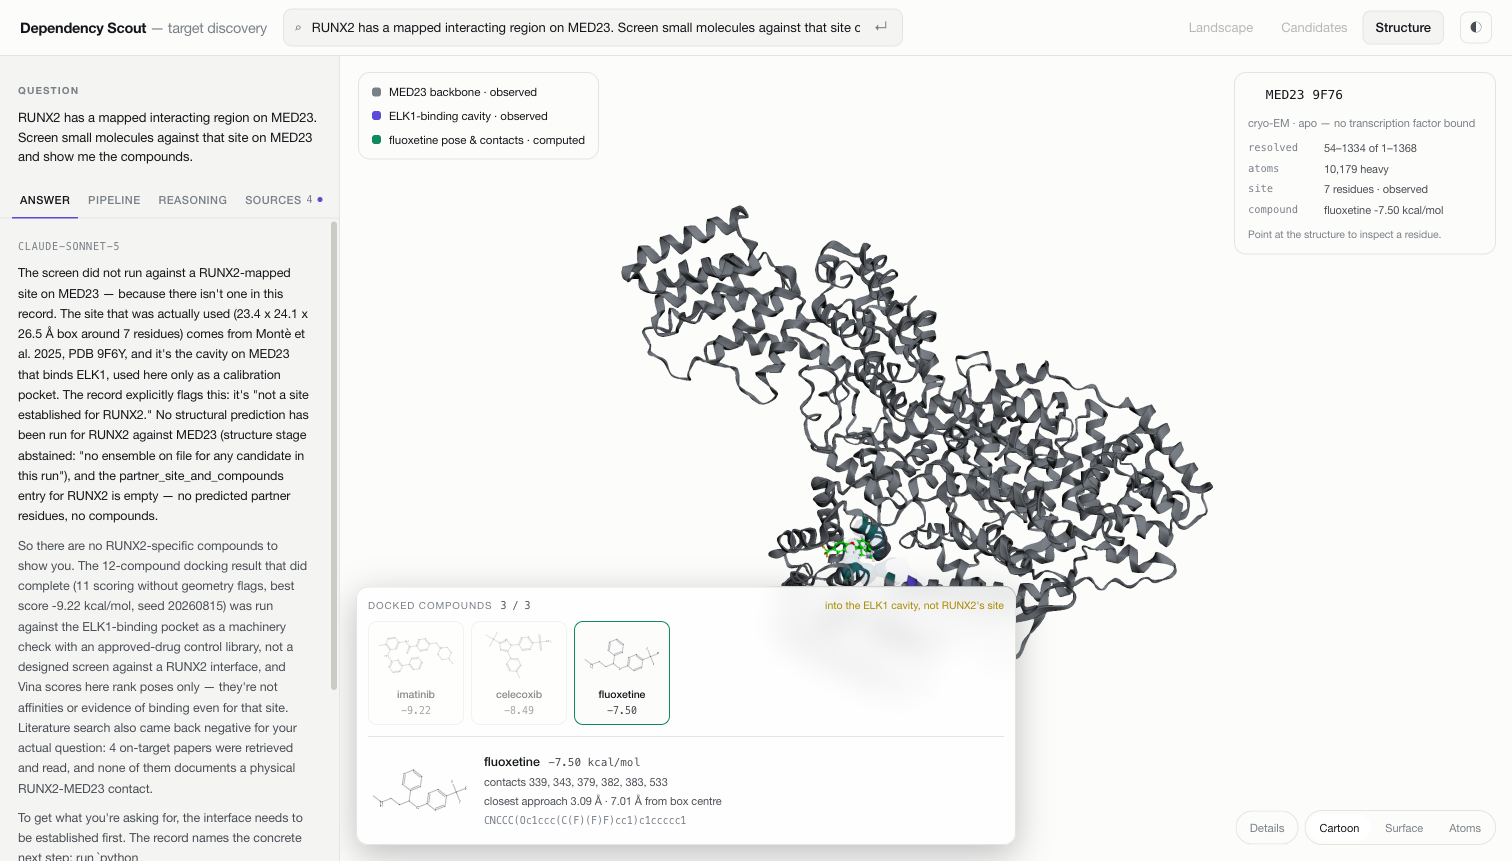
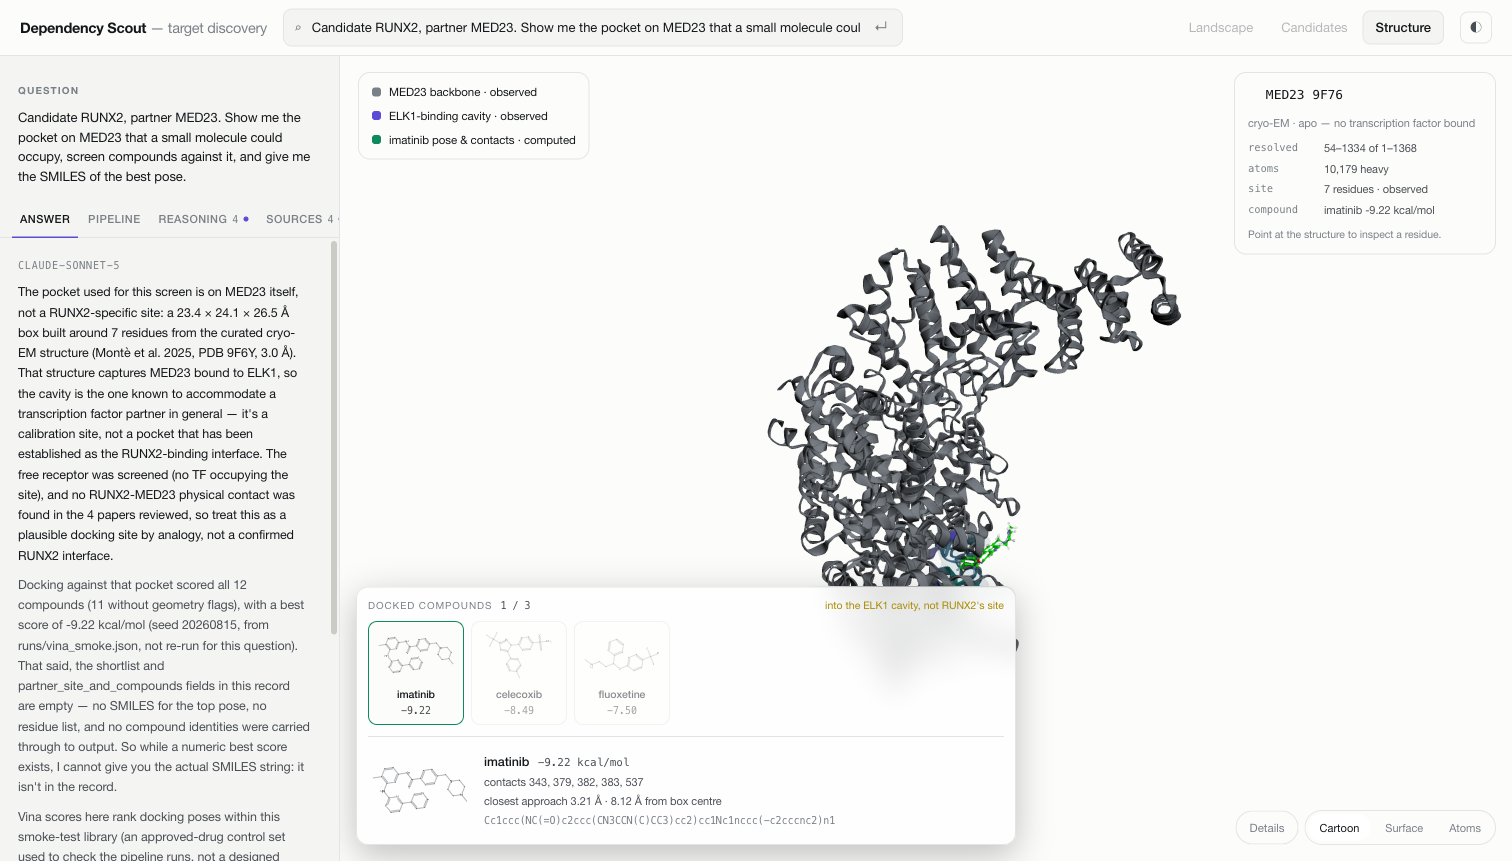
Open on the candidate the run docked for, and let the answer see the compounds
Two ways the same run contradicted itself on screen.

The structure view defaults to a solved pair, which is right when nothing was
computed and wrong the moment something was: the screening stage would report
twelve compounds scored and the canvas would open on a different protein, with
the compound strip empty, because the poses belong to a candidate the reader
never selected. A highlight carrying compounds now claims the selection — but
only while it is still the default one. A row the reader picked is theirs.

And the answer was written from a record that carried compound names and scores
but not their structures, so the model said the SMILES was not available while
the panel beside it displayed the SMILES. The record now carries both lists,
the structures with them, and the name of the site's owner, so the answer can
say whose cavity these were docked into instead of implying they are the
candidate's.

diff --git a/ui/index.html b/ui/index.html
@@ -1269,7 +1269,17 @@ function run(q, predict){
     const h = JSON.parse(e.data);
     HIGHLIGHT[h.gene] = h;
     const sel = C[selIdx];
-    if(sel && sel.gene === h.gene) showPair?.(sel);
+    if(sel && sel.gene === h.gene){ showPair?.(sel); return; }
+    // A run that docked compounds should open on the candidate it docked them
+    // for. The structure view defaults to a solved pair, which is the right
+    // choice when nothing was computed and the wrong one the moment something
+    // was: the screen would report twelve compounds and the canvas would show
+    // a different protein. Only claims the selection while it is still the
+    // default one — a row the reader picked is never taken away from them.
+    if(!picked && ligandsOf(h).length){
+      const i = C.findIndex(c => c.gene === h.gene);
+      if(i >= 0) select(i);
+    }
   });
   // The payload is `{trace: {...}}`; the trace is what has `calls` on it.
   // Passing the envelope meant `trace.calls` was always undefined, so the
@@ -1578,12 +1588,13 @@ $('#rows').innerHTML=C.map((c,i)=>{const [dc,dl]=dep(c),[cc,cl]=con(c);
           : 'the documented partner'}">${c.involvement==='unknown'?'vs ':''}${c.partner}</span>`
       : ''}</td>
   <td class="num">${c.score===null?'—':fmt(c.score,3)}</td></tr>`;}).join('');
-  selIdx = null;          // a new table invalidates the old selection
+  selIdx = null; picked = false;   // a new table invalidates the old selection
 }
 // module scope: select() and initStructure() both read this. Declared inside
 // renderCandidates() it threw ReferenceError and the Structure tab rendered
 // nothing, silently.
 let selIdx = null;
+let picked = false;      // did a reader choose this row, or did the run?
 renderCandidates();
 
 function select(i){
@@ -1615,7 +1626,8 @@ function select(i){
       documented coactivator contact.</p>`}`;
   $('#detail').scrollTop=0;
 }
-$('#rows').addEventListener('click',e=>{const r=e.target.closest('tr'); if(r) select(r.dataset.i);});
+$('#rows').addEventListener('click',e=>{const r=e.target.closest('tr');
+  if(r){ picked = true; select(r.dataset.i); }});
 $('#rows').addEventListener('keydown',e=>{if(e.key==='Enter'||e.key===' '){
   const r=e.target.closest('tr'); if(r){e.preventDefault();select(r.dataset.i);}}});
 

diff --git a/ui/pipeline_api.py b/ui/pipeline_api.py
@@ -86,11 +86,22 @@ class _Recorder:
                                  "ofrac", "n", "q", "route")}
                                for r in payload.get("rows", [])]
         elif event == "highlight":
+            # Both lists, and the SMILES with them. The reader is looking at the
+            # structures on the canvas while the answer is being written, and an
+            # answer that says the compounds are not in its record — while the
+            # panel beside it lists them — is describing a different run. The
+            # site's owner travels too, so the model can say whose cavity these
+            # were docked into rather than implying they are the candidate's.
             self.highlights.append(
                 {"gene": payload.get("gene"),
                  "predicted_partner_residues": payload.get("residues"),
-                 "compounds": [{k: c.get(k) for k in ("name", "score", "residues")}
-                               for c in payload.get("ligands", [])]})
+                 "compounds": [{k: c.get(k) for k in
+                                ("name", "score", "smiles", "residues")}
+                               for c in payload.get("ligands", [])],
+                 "compounds_docked_into_this_site": [
+                     {k: c.get(k) for k in ("name", "score", "smiles", "residues")}
+                     for c in payload.get("site_ligands", [])],
+                 "site_belongs_to": payload.get("site_owner")})
         elif event == "paper":
             self.papers += 1
         self._emit(event, payload)
